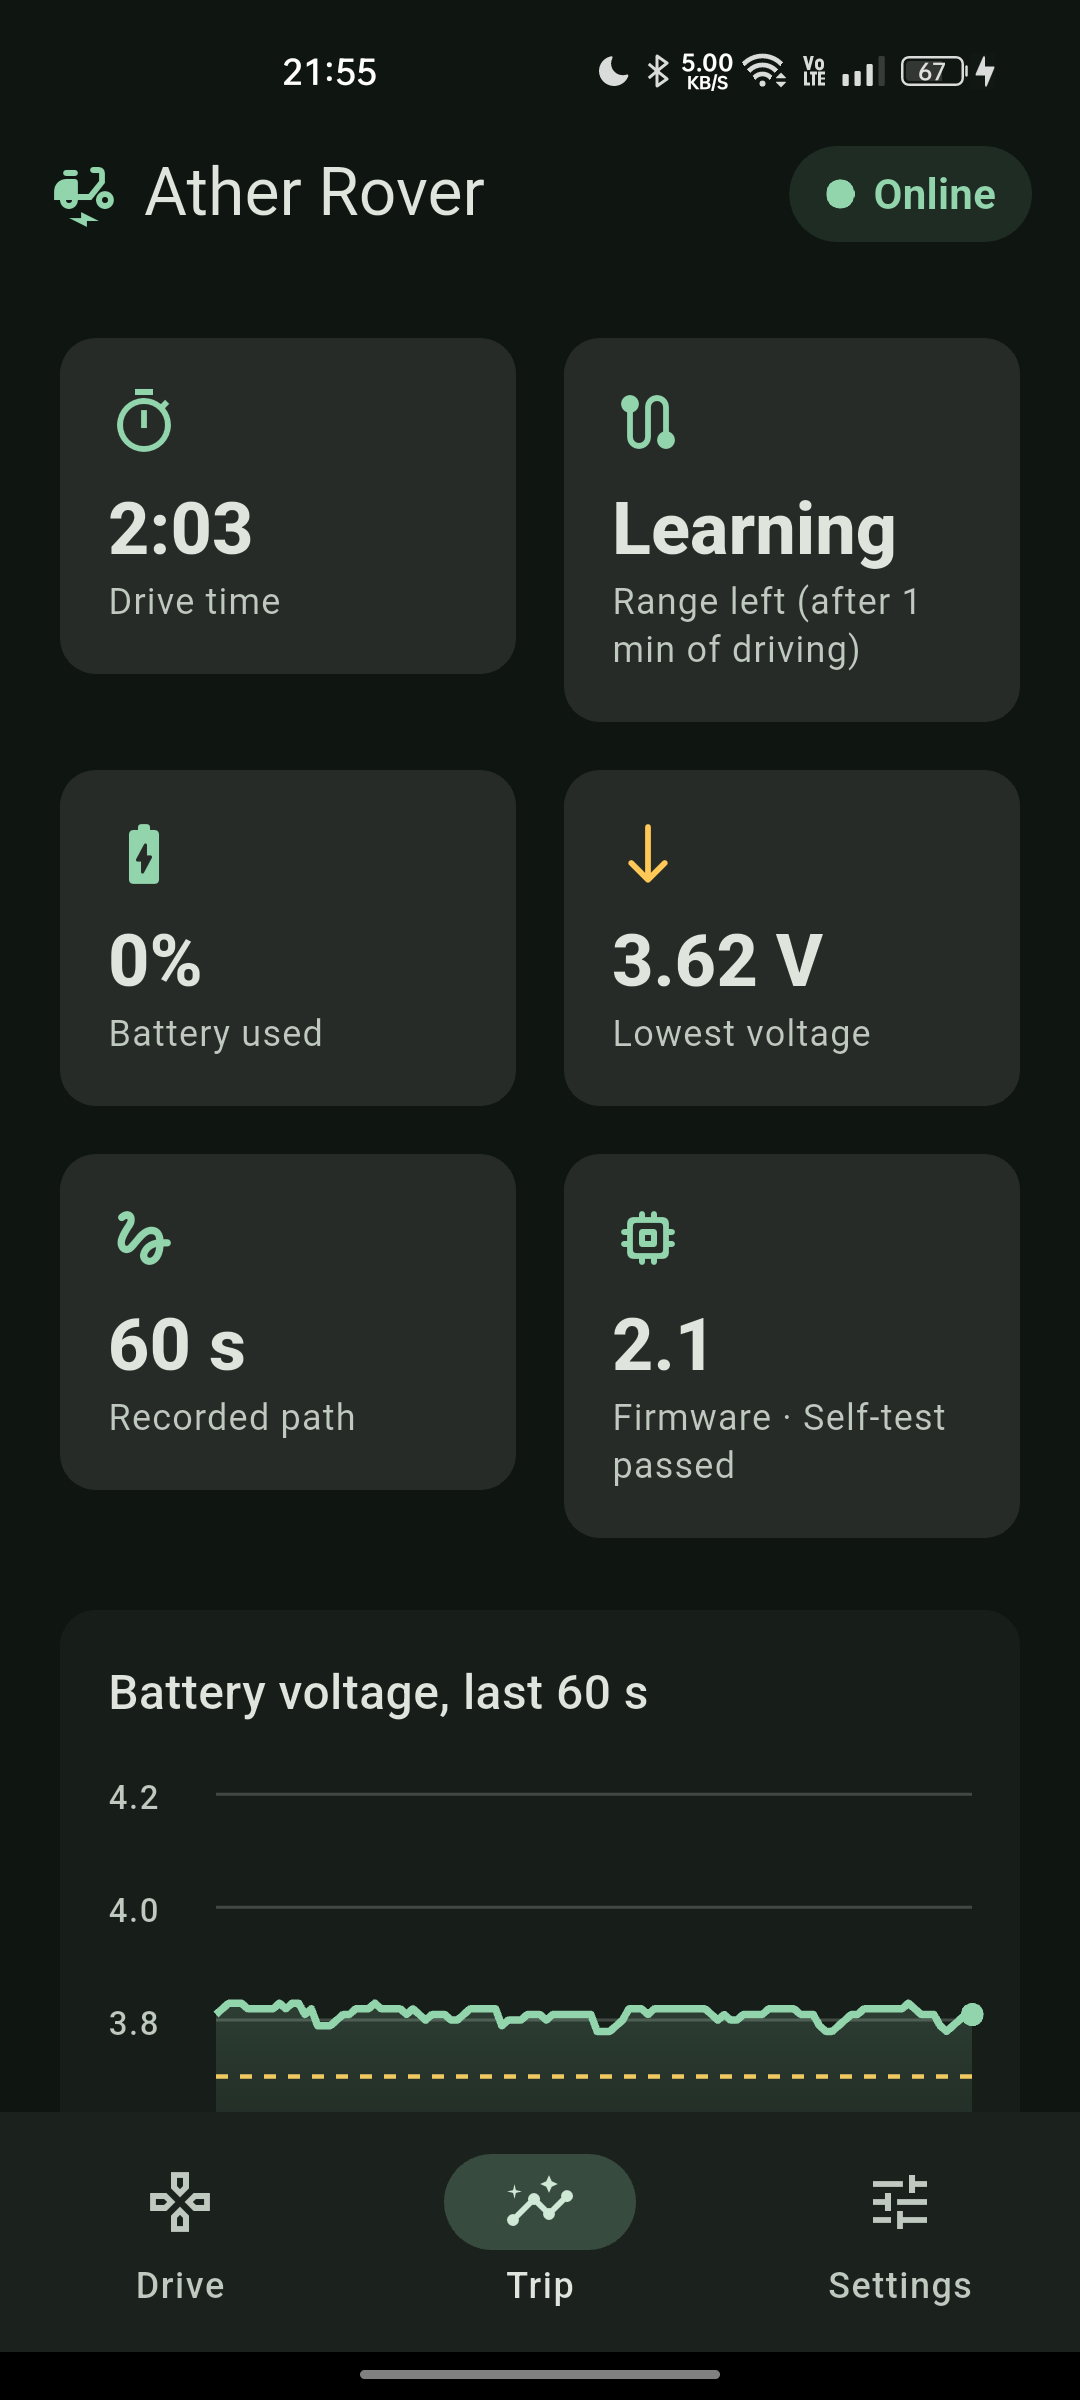
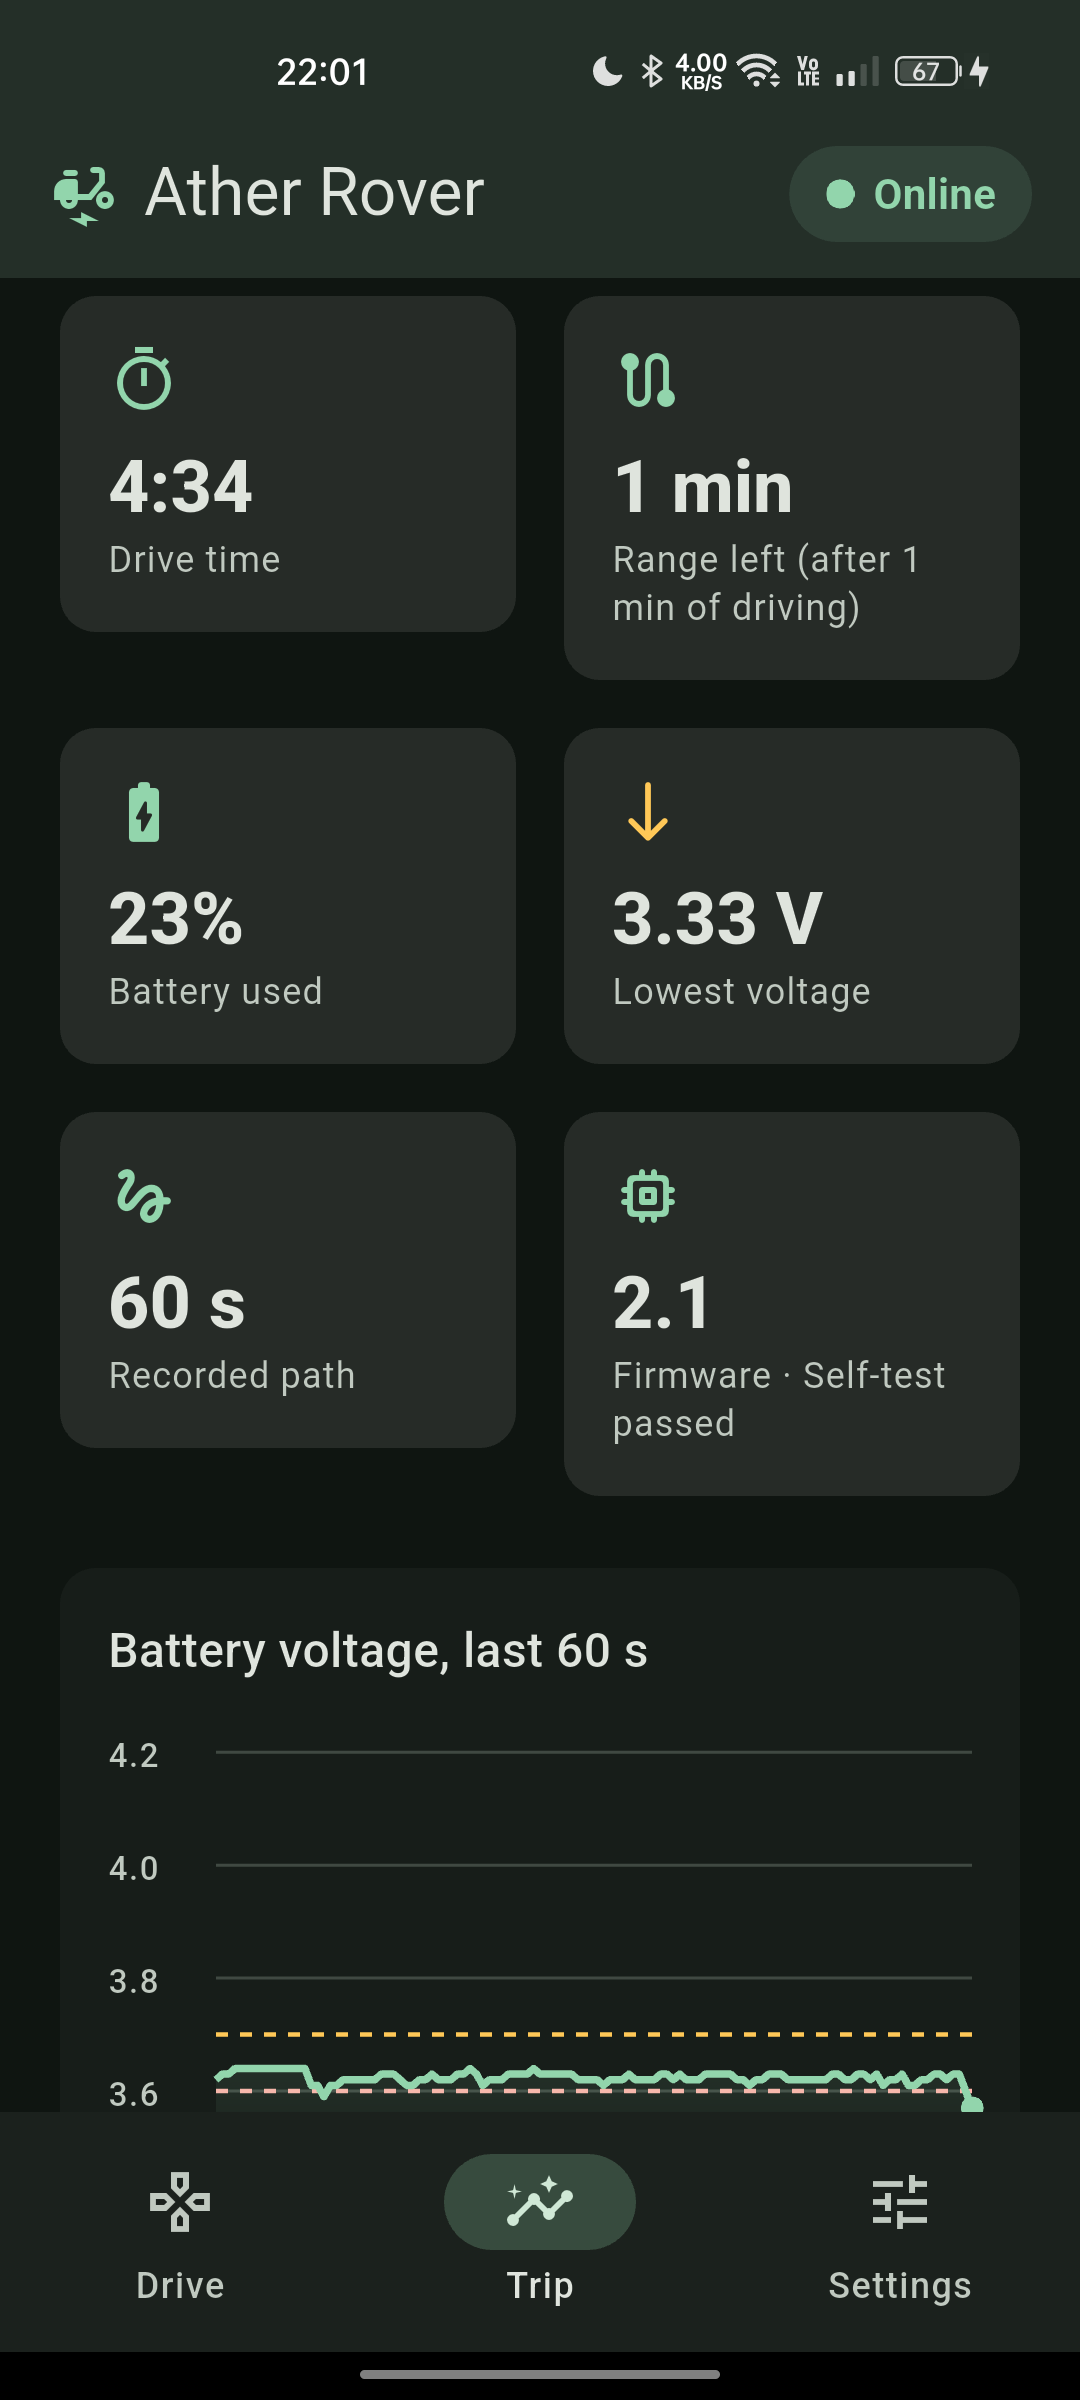
Update README with full structure and fresh Trip screenshot

diff --git a/README.md b/README.md
@@ -1,94 +1,278 @@
-# 🛞 ESP32 Wi-Fi Rover
+# ESP32 Wi-Fi Rover
 
-An ESP32-powered rover you drive from your phone over Wi-Fi. Built at the **Ather Forge Hackathon** at PES University.
-
-The rover creates its own Wi-Fi network — the phone joins it and the Flutter app drives the rover over a WebSocket. **No internet and no router needed.**
-
-```
-Phone (Flutter app) ──Wi-Fi, WebSocket port 81──▶ ESP32 ──PWM──▶ DRV8833 ──▶ 2 motors
-```
-
-## 📱 App Screenshots
+A phone-controlled rover built at the **Ather Forge Hackathon** (PES University, November 2026). The ESP32 creates its own Wi-Fi network — the phone joins it and a Flutter app drives the rover over a WebSocket. **No internet, no router, no pairing — just power on and drive.**
 
 <p align="center">
-  <img src="screenshots/drive.png" width="250" alt="Drive – joystick, battery gauge, ride modes"/>
+  <img src="screenshots/drive.png" width="250" alt="Drive screen"/>
   &nbsp;&nbsp;
-  <img src="screenshots/trip.png" width="250" alt="Trip – drive stats, voltage chart"/>
+  <img src="screenshots/trip.png" width="250" alt="Trip screen"/>
   &nbsp;&nbsp;
-  <img src="screenshots/settings.png" width="250" alt="Settings – connection, joystick tuning"/>
+  <img src="screenshots/settings.png" width="250" alt="Settings screen"/>
 </p>
 
-## 📂 Project Structure
+---
+
+## Contents
+
+- [Features](#features)
+  - [Firmware (ESP32)](#firmware-esp32)
+  - [App (Flutter, Android/iOS)](#app-flutter-androidios)
+- [How it works](#how-it-works)
+- [Hardware](#hardware)
+- [Getting started](#getting-started)
+  - [1. Flash the firmware](#1-flash-the-firmware)
+  - [2. Build the app](#2-build-the-app)
+  - [3. Drive](#3-drive)
+- [Protocol](#protocol)
+- [Testing](#testing)
+- [Project structure](#project-structure)
+- [Safety and security notes](#safety-and-security-notes)
+- [Roadmap](#roadmap)
+- [License](#license)
+- [Acknowledgements](#acknowledgements)
+
+---
+
+## Features
+
+### Firmware (ESP32)
+
+| Feature | Detail |
+|---|---|
+| **Wi-Fi Access Point** | Creates its own network (`Ather` / `123456789`) — no router needed |
+| **WebSocket server** | Real-time bidirectional communication on port 81 |
+| **Ride modes** | Eco (40% power), Ride (70%), Sport (100%) — each with its own acceleration ramp |
+| **Fail-safe** | No command for 400 ms → motors stop immediately. App heartbeat every 50 ms |
+| **Limp mode** | Below 3.5 V → power capped at 30% |
+| **Battery cut-off** | Below 3.3 V → motors stop and stay stopped until reboot |
+| **Smooth ramping** | Motor power ramps up/down gradually per ride mode to prevent jerky starts |
+| **OTA updates** | Arduino OTA: upload new firmware over Wi-Fi from your laptop |
+| **Dual core compatibility** | Works with both ESP32 Arduino core 2.x and 3.x |
+
+### App (Flutter, Android/iOS)
+
+| Feature | Detail |
+|---|---|
+| **Virtual joystick** | Touch joystick with configurable dead zone and expo curve |
+| **Tilt steering** | Drive by tilting the phone — calibrates to your holding pose on activation |
+| **Battery gauge** | Live voltage and percentage with animated arc |
+| **Ride mode selector** | Tap to switch between Eco / Ride / Sport |
+| **Turbo** | 3 s burst of full power, then 10 s cool-down |
+| **Record & Replay** | Record up to 60 s of driving, replay it autonomously |
+| **Find rover** | Flash the rover's lights to locate it |
+| **Trip stats** | Drive time, battery used, lowest voltage, recorded path duration, firmware version |
+| **Voltage chart** | Live battery voltage over the last 60 s |
+| **Settings** | Rover address, joystick dead zone, joystick expo, tilt sensitivity |
+| **Auto-reconnect** | Automatically reconnects when connection drops |
+| **Responsive layout** | Portrait (stacked) and landscape/tablet (side-by-side) layouts |
+| **Haptic feedback** | Vibration on controls for a tactile feel |
+| **Onboarding** | First-launch screen with Wi-Fi setup instructions |
+
+---
+
+## How it works
 
 ```
-ather_rover/          ← v1: original hackathon build
-  ├── firmware/       ESP32 Arduino sketch
-  ├── app/            Flutter app
-  └── hardware/       KiCad PCB schematic
-
-ather_rover_v2/       ← v2: battery LED + web monitor additions
-ather_rover_v3/       ← v3: full rewrite – trip stats, settings, tilt steering
+Phone (Flutter app) ──Wi-Fi──▶ ESP32 Access Point (192.168.4.1)
+                     WebSocket :81
+                         │
+                    D,x,y  M,mode  S
+                         │
+                    ┌─────▼─────┐
+                    │   ESP32   │
+                    │ Diff-mix  │
+                    │   Ramp    │
+                    └─────┬─────┘
+                     PWM 20 kHz
+                    ┌─────▼─────┐
+                    │  DRV8833  │
+                    └──┬─────┬──┘
+                 Motor A   Motor B
 ```
 
-## ⚡ Quick Start
+1. The ESP32 boots and creates a Wi-Fi network.
+2. The phone joins the network and the app opens a WebSocket to `ws://192.168.4.1:81`.
+3. The joystick (or tilt sensor) sends `D,<x>,<y>` commands at ~50 Hz, where x = steer (−1…1) and y = throttle (−1…1).
+4. The firmware mixes x and y into differential drive (left = y+x, right = y−x), applies the ride-mode power cap, ramps smoothly, and outputs 20 kHz PWM to the DRV8833 motor driver.
+5. The rover sends telemetry back at 2 Hz: `T,<volts>,<percent>,<mode>,<state>,<fw>`.
+
+---
+
+## Hardware
+
+| Component | Part | Notes |
+|---|---|---|
+| **MCU** | ESP32 Dev Module | Wi-Fi AP + WebSocket server |
+| **Motor driver** | DRV8833 | Dual H-bridge, SLP pin tied to 3V3 |
+| **Motors** | 2× DC gear motors | Differential drive (tank steering) |
+| **Battery** | 3.7 V Li-ion | Optional voltage divider (2×100 kΩ) on GPIO 34 |
+| **PCB** | Custom (KiCad) | Schematic in `ather_rover/hardware/` |
+
+**Pin mapping:**
+
+| Function | GPIO |
+|---|---|
+| Motor A IN1 | 32 |
+| Motor A IN2 | 33 |
+| Motor B IN3 | 25 |
+| Motor B IN4 | 26 |
+| Battery sense | 34 |
+| DRV8833 SLP | 3V3 |
+
+> [!TIP]
+> If a motor spins backwards, either swap its two wires or set `INVERT_A` / `INVERT_B` to `true` in the firmware.
+
+---
+
+## Getting started
 
 ### 1. Flash the firmware
 
-1. Arduino IDE → install **esp32 by Espressif v3.x**.
-2. Library Manager → install **WebSockets** by Markus Sattler.
-3. Open `ather_rover/firmware/rover_firmware/rover_firmware.ino`, board: **ESP32 Dev Module**.
-4. Upload (battery switch OFF while USB is connected).
-
-**Pins:** IN1=32, IN2=33, IN3=25, IN4=26, battery sense=34, SLP → 3V3.
-Wi-Fi: `Ather` / `123456789` (change at the top of the sketch).
+1. Install [Arduino IDE](https://www.arduino.cc/en/software).
+2. Board Manager → install **esp32 by Espressif, version 3.x**.
+3. Library Manager → install **WebSockets** by Markus Sattler.
+4. Open `ather_rover/firmware/rover_firmware/rover_firmware.ino`.
+5. Select board: **ESP32 Dev Module**.
+6. If you did not fit the two 100 kΩ battery resistors on GPIO 34, make sure `HAVE_DIVIDER = false` (the default).
+7. Upload (**battery switch OFF** while USB is connected).
 
 ### 2. Build the app
 
 ```bash
 cd ather_rover_v3/app
 flutter pub get
-flutter run
+flutter run            # or: flutter build apk
 ```
 
-Needs Flutter 3.22+.
+> [!NOTE]
+> Requires Flutter 3.22+ and Dart SDK ≥3.4.0. The app uses `web_socket_channel`, `sensors_plus`, and `shared_preferences`.
 
-### 3. Drive!
+For a release APK, make sure this line is in `android/app/src/main/AndroidManifest.xml`:
 
-1. Power the rover. Join Wi-Fi **Ather** on the phone.
-2. If prompted "no internet", stay connected and turn **mobile data off**.
-3. Open the app — it auto-connects to `192.168.4.1:81`.
-4. Joystick drives, **STOP** stops, **Eco / Ride / Sport** sets power and acceleration.
+```xml
+<uses-permission android:name="android.permission.INTERNET"/>
+```
 
-## 🔧 Features
+### 3. Drive
 
-| Feature | Detail |
+1. Power on the rover.
+2. On the phone, join Wi-Fi **`Ather`** (password `123456789`).
+3. If the phone warns "no internet", choose **Stay connected** and turn **mobile data off** so Android doesn't route traffic away from the rover.
+4. Open the app — it auto-connects to `192.168.4.1:81`.
+5. Use the joystick to drive. Tap **STOP** to emergency stop.
+6. Switch between **Eco / Ride / Sport** for different power and acceleration levels.
+
+---
+
+## Protocol
+
+Plain text over WebSocket (port 81).
+
+**App → Rover:**
+
+| Message | Description |
 |---|---|
-| **Ride modes** | Eco 40%, Ride 70%, Sport 100% power — each with its own acceleration ramp |
-| **Fail-safe** | No command for 400 ms → motors stop. App heartbeat every 50 ms |
-| **Tilt steering** | Drive by tilting the phone (configurable sensitivity) |
-| **Turbo** | Hold for temporary full power override |
-| **Trip stats** | Drive time, battery used, lowest voltage, recorded path, voltage chart |
-| **Limp mode** | Below 3.5 V → power capped at 30% |
-| **Battery cut-off** | Below 3.3 V → motors stop until reboot |
-| **OTA update** | Arduino OTA from laptop over the rover's Wi-Fi |
-| **Record & Replay** | Record a drive path, replay it autonomously |
-| **Find rover** | Blink/beep to locate |
+| `D,<x>,<y>` | Drive command. x = steer, y = throttle, both −1.0 … 1.0 |
+| `M,<0\|1\|2>` | Set ride mode: 0 = Eco, 1 = Ride, 2 = Sport |
+| `S` | Emergency stop |
 
-## 📡 Protocol
+**Rover → App** (every 500 ms):
+
+| Message | Description |
+|---|---|
+| `T,<volts>,<percent>,<mode>,<state>,<fw>` | Telemetry frame |
+
+State values: `OK`, `FAILSAFE`, `LIMP`, `LOWBATT`.
+
+---
+
+## Testing
+
+The v3 app includes unit tests for the core logic:
+
+```bash
+cd ather_rover_v3/app
+flutter test
+```
+
+| Test file | Covers |
+|---|---|
+| `drive_math_test.dart` | Dead zone, expo curve, joystick shaping, tilt-to-drive, unit circle clamping |
+| `protocol_test.dart` | Telemetry parsing, command formatting |
+| `rover_controller_test.dart` | Connection state machine, mode switching, fail-safe |
+| `settings_test.dart` | Settings persistence and defaults |
+
+The firmware was tested with stand-in Arduino headers — drive directions, mode limits, fail-safe, telemetry format, and battery cut-off all pass simulation.
+
+---
+
+## Project structure
 
 ```
-App → Rover:   D,<x>,<y>  drive (-1..1)  |  M,<0|1|2>  mode  |  S  stop
-Rover → App:   T,<volts>,<percent>,<mode>,<state>,<fw>   (2 Hz)
+├── screenshots/              App screenshots for this README
+├── ather_rover/              v1 — original hackathon build
+│   ├── firmware/             ESP32 Arduino sketch
+│   │   └── rover_firmware/
+│   ├── app/                  Flutter app (single-file, basic joystick)
+│   │   └── lib/
+│   ├── hardware/             KiCad PCB schematic & layout
+│   │   └── rover-circuit/
+│   └── README.md             Detailed v1 README
+│
+├── ather_rover_v2/           v2 — added battery LED indicators + web battery monitor
+│   └── ather_rover/
+│       ├── firmware/
+│       └── app/
+│
+└── ather_rover_v3/           v3 — full rewrite
+    └── app/
+        ├── lib/
+        │   ├── core/         drive_math, protocol, transport (WebSocket)
+        │   ├── state/        rover_controller, settings_controller
+        │   └── ui/
+        │       ├── screens/  drive, trip, onboarding, settings
+        │       └── widgets/  joystick, battery_gauge, voltage_chart, status
+        └── test/             Unit tests
 ```
 
-## 🔌 Hardware
+---
 
-- **MCU:** ESP32 Dev Module
-- **Motor driver:** DRV8833
-- **Motors:** 2× DC gear motors
-- **Battery:** 3.7 V Li-ion (with optional voltage divider on GPIO34)
-- **PCB:** KiCad schematic in `ather_rover/hardware/`
+## Safety and security notes
 
-## 📄 License
+> [!CAUTION]
+> - **Battery switch OFF** while USB is connected — do not charge and drive simultaneously.
+> - The Wi-Fi password is hardcoded in plaintext in the firmware. Change it before using in public.
+> - The WebSocket has **no authentication** — anyone on the rover's Wi-Fi can send commands.
+> - The rover is a hackathon prototype, **not a production device**. Use at your own risk.
+
+- The firmware has a 400 ms fail-safe: if the app disconnects or crashes, the motors stop automatically.
+- Battery cut-off at 3.3 V prevents over-discharge of the Li-ion cell.
+- OTA updates stop the motors before flashing begins.
+
+---
+
+## Roadmap
+
+- [ ] Encrypted WebSocket (WSS) with authentication
+- [ ] Camera feed (ESP32-CAM module)
+- [ ] Speed/distance odometry from motor encoders
+- [ ] Obstacle avoidance with ultrasonic sensor
+- [ ] Multi-rover support (connect to multiple rovers)
+- [ ] iOS build and TestFlight distribution
+- [ ] 3D-printed chassis design files
+
+---
+
+## License
 
 Personal project — built at the Ather Forge Hackathon, PES University, November 2026.
+
+---
+
+## Acknowledgements
+
+- **Ather Energy** — for hosting the hackathon
+- **PES University** — venue and support
+- [WebSockets by Markus Sattler](https://github.com/Links2004/arduinoWebSockets) — ESP32 WebSocket library
+- [sensors_plus](https://pub.dev/packages/sensors_plus) — accelerometer for tilt steering
+- [web_socket_channel](https://pub.dev/packages/web_socket_channel) — Dart WebSocket client
